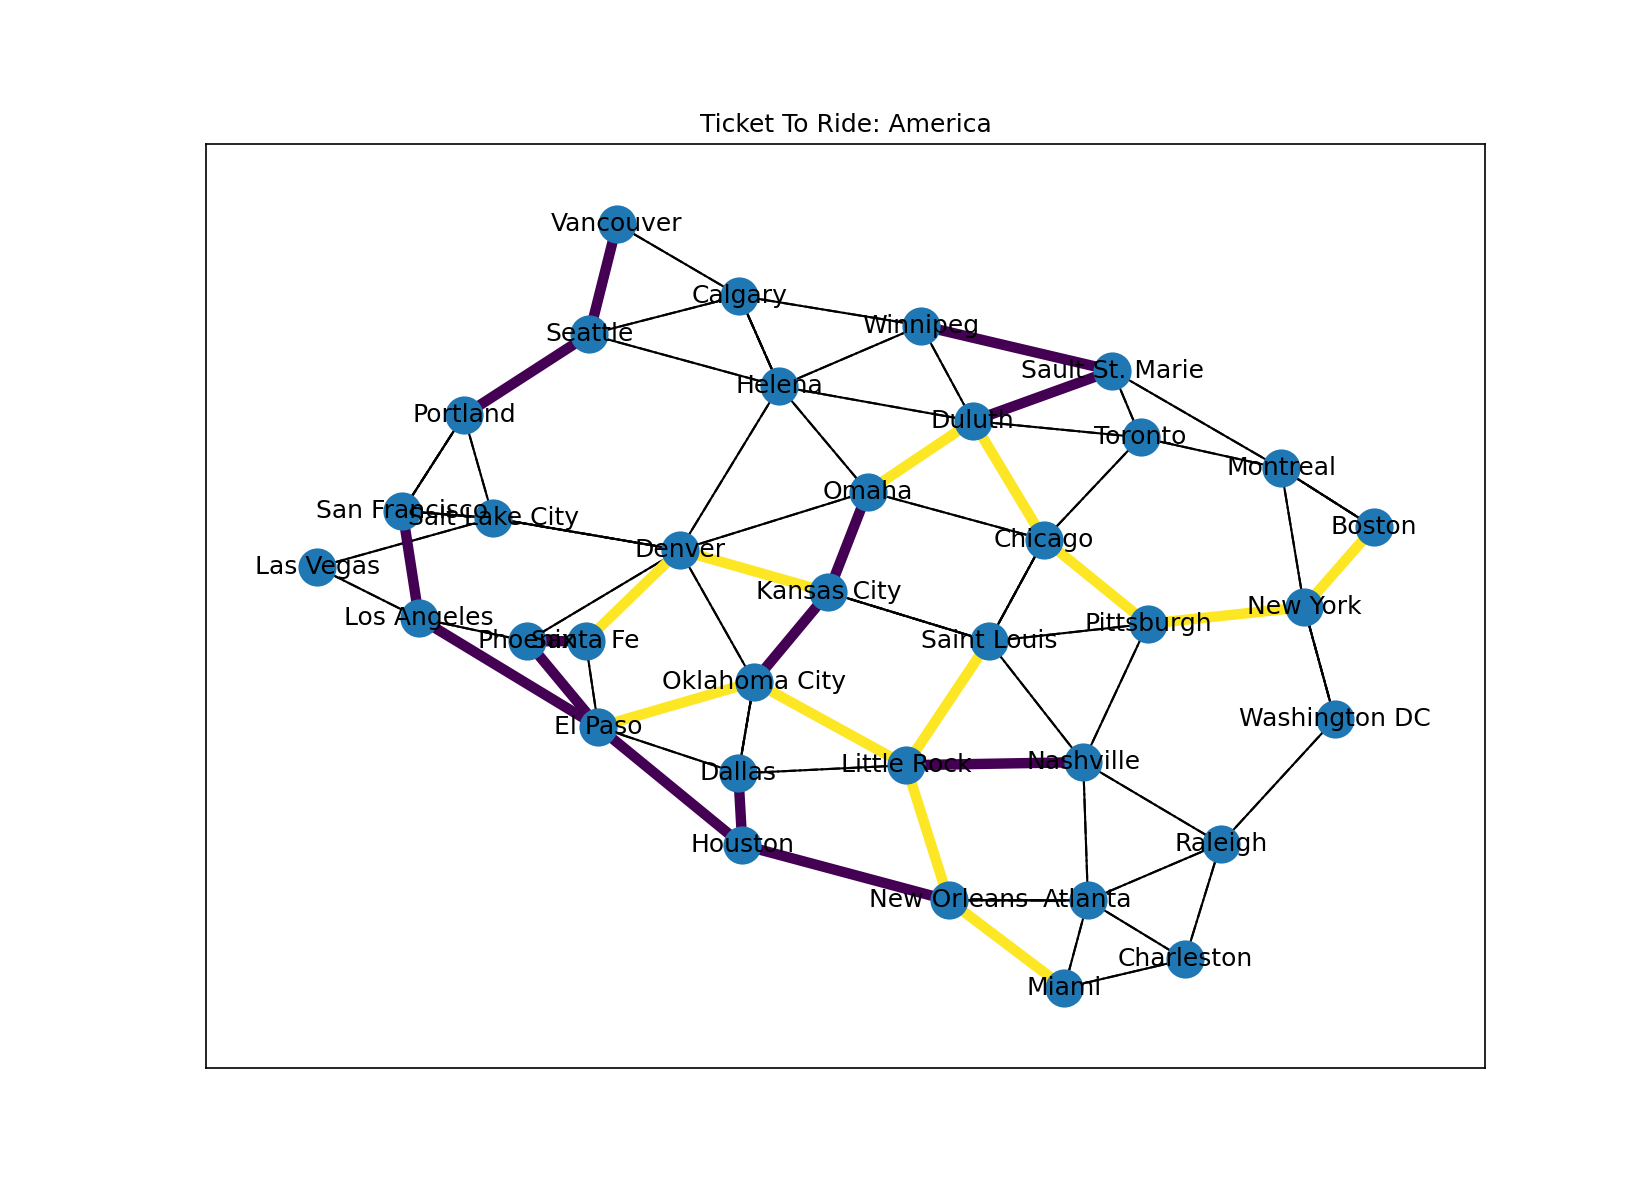
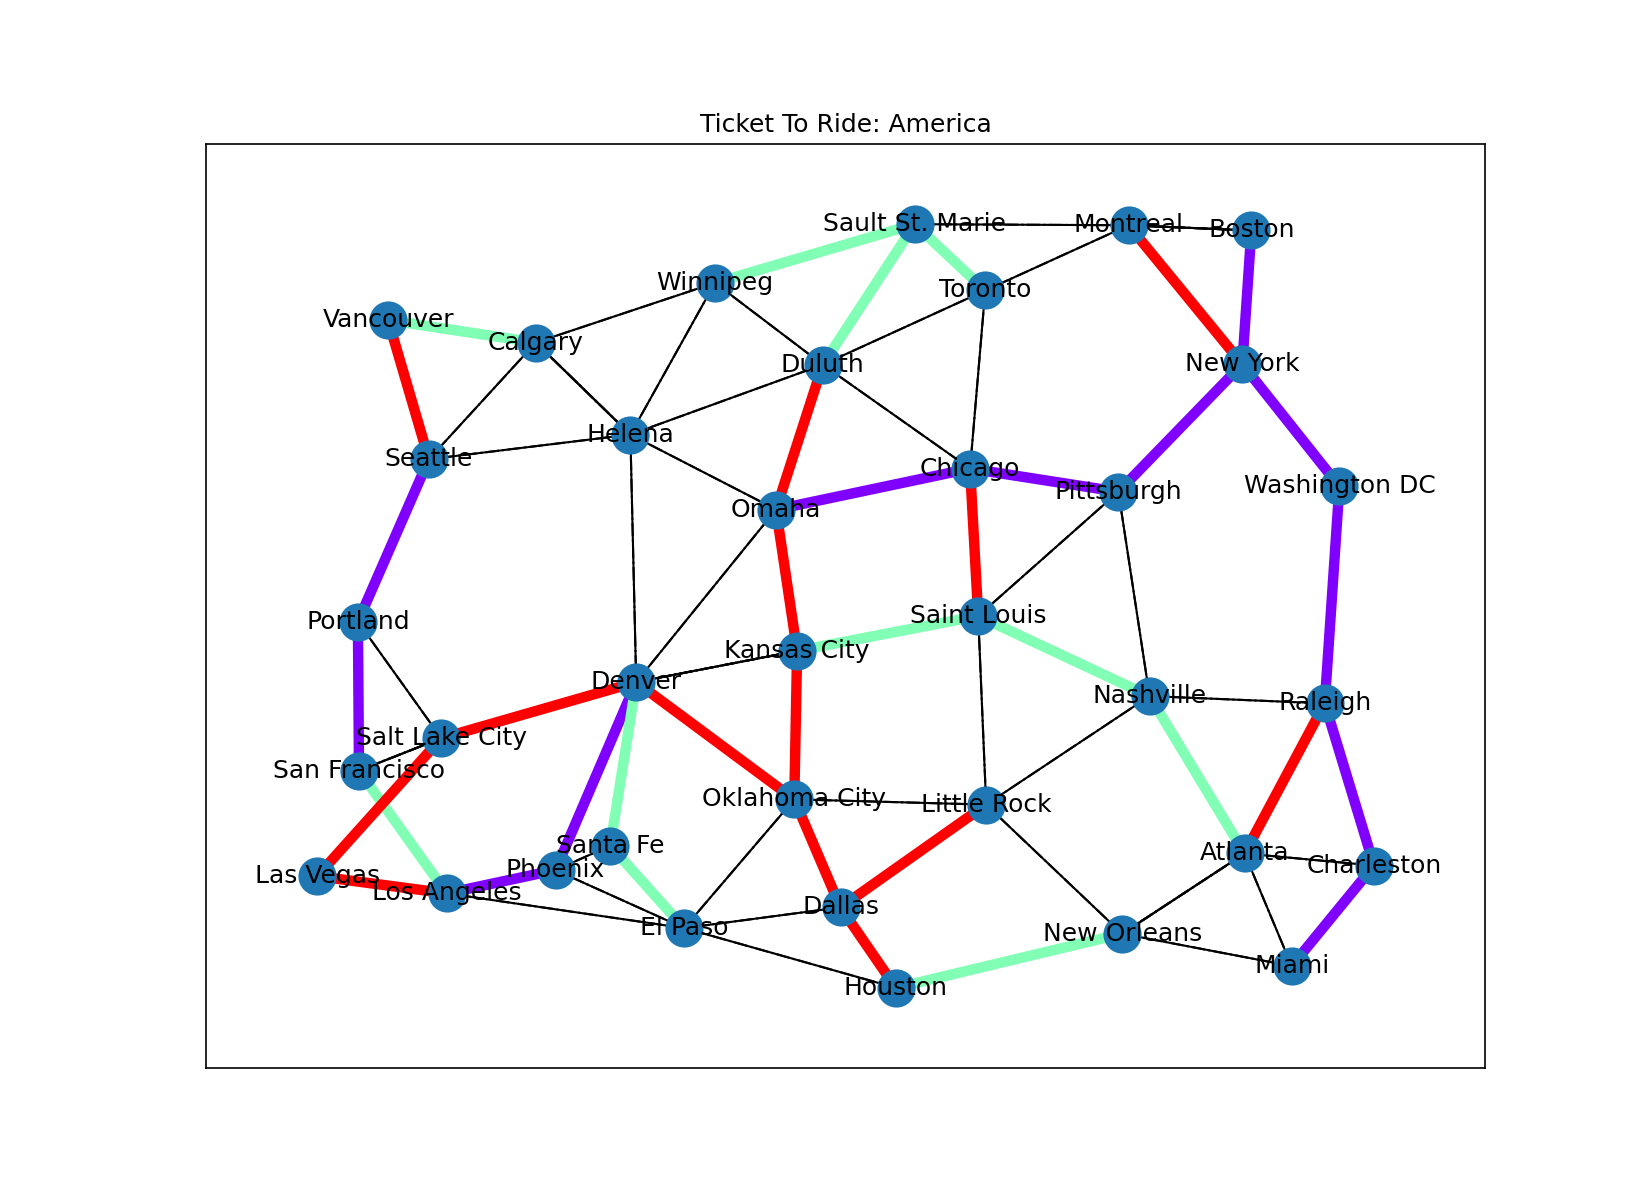
better color map

Changed region(s): [[0.1545, 0.1542, 0.8655, 0.8633], [0.34, 0.3392, 0.4327, 0.4008]]

diff --git a/Map.py b/Map.py
@@ -3,6 +3,7 @@
 import networkx as nx
 from math import log
 import matplotlib.pyplot as plt
+# import matplotlib.colormaps
 
 
 class Map:
@@ -55,11 +56,12 @@ class Map:
                    'Miami': [[.9, -.9]]}
         # fixed = ['Vancouver', 'Boston', 'Los Angeles', 'Miami']
         pos = nx.spring_layout(self.G, pos=corners)
-        # print(pos)
+        cmap = plt.cm.rainbow
+
         plt.figure(figsize=(11, 8))
         nx.draw_networkx(self.G, pos=pos, with_labels=True)
         nx.draw_networkx_edges(self.G, pos=pos, edgelist=unclaimed, width=1, style='-.')
-        nx.draw_networkx_edges(self.G, pos=pos, edgelist=claimed, edge_color=color_map, width=5)
+        nx.draw_networkx_edges(self.G, pos=pos, edgelist=claimed, edge_color=color_map, edge_cmap=cmap, width=5)
         plt.title('Ticket To Ride: America')
         plt.savefig("test_map.png", dpi=150)
         plt.show()

diff --git a/test.py b/test.py
@@ -16,7 +16,7 @@ def test(n):
         destinations = get_routes('defaultRoutes.txt')
         routes = Routes(destinations)
         resources = Resources()
-        players = [RandomAI() for _ in range(2)]
+        players = [RandomAI() for _ in range(3)]
         # Next step, pass all into Game
         game = Game(G, routes, resources, players)
         game.map.display_map()
@@ -71,4 +71,4 @@ color_dict = {"Colors.none": 0,
               "Colors.black": 8}
 
 
-test(25)
+test(1)
